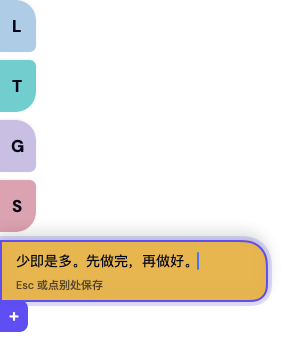
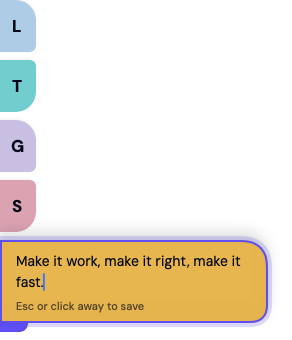
feat: English interface text; README and screenshots in English
The interface follows the system language (English or Simplified Chinese).

Changed region(s): [[0.0, 0.8529, 0.9555, 0.9706], [0.0308, 0.7353, 0.8322, 0.8529]]

diff --git a/Sources/StickySideNote/AppDelegate.swift b/Sources/StickySideNote/AppDelegate.swift
@@ -13,7 +13,8 @@ final class AppDelegate: NSObject, NSApplicationDelegate, NSMenuDelegate {
         installEditMenu()
         let snapshotDir = Snapshot.directory
         // Snapshot runs use their own notes file so they never touch real notes.
-        let store = NoteStore(fileURL: snapshotDir?.appendingPathComponent("notes.json") ?? NoteStore.defaultURL)
+        let store = NoteStore(fileURL: snapshotDir?.appendingPathComponent("notes.json") ?? NoteStore.defaultURL,
+                              welcomeText: L10n.welcome)
         model = RailModel(store: store) { text in
             let pasteboard = NSPasteboard.general
             pasteboard.clearContents()
@@ -83,7 +84,7 @@ final class AppDelegate: NSObject, NSApplicationDelegate, NSMenuDelegate {
 
         let layout = RailLayout.compute(noteCount: model.store.notes.count,
                                         available: panelController.availableHeight)
-        let add = ClosureMenuItem(title: "新建便签") { [unowned self] in
+        let add = ClosureMenuItem(title: L10n.newNote) { [unowned self] in
             model.setHidden(false)
             model.addNote()
         }
@@ -93,7 +94,7 @@ final class AppDelegate: NSObject, NSApplicationDelegate, NSMenuDelegate {
         // One step from "copied something elsewhere" to a note, with no typing or focus needed.
         let clip = NSPasteboard.general.string(forType: .string)?
             .trimmingCharacters(in: .whitespacesAndNewlines) ?? ""
-        let paste = ClosureMenuItem(title: "从剪贴板新建便签") { [unowned self] in
+        let paste = ClosureMenuItem(title: L10n.newNoteFromClipboard) { [unowned self] in
             model.setHidden(false)
             model.commitEdit()
             model.store.add(text: clip)
@@ -102,17 +103,17 @@ final class AppDelegate: NSObject, NSApplicationDelegate, NSMenuDelegate {
         menu.addItem(paste)
 
         let hidden = model.isHidden
-        menu.addItem(ClosureMenuItem(title: hidden ? "显示全部便签" : "隐藏全部便签") { [unowned self] in
+        menu.addItem(ClosureMenuItem(title: hidden ? L10n.showAll : L10n.hideAll) { [unowned self] in
             model.setHidden(!hidden)
         })
 
         // Moving without dragging: every screen, either side.
-        let move = NSMenuItem(title: "移动到", action: nil, keyEquivalent: "")
+        let move = NSMenuItem(title: L10n.moveTo, action: nil, keyEquivalent: "")
         let places = NSMenu()
         places.autoenablesItems = false
         for (index, screen) in NSScreen.screens.enumerated() {
             if index > 0 { places.addItem(.separator()) }
-            for (side, label) in [(RailSide.left, "左侧"), (RailSide.right, "右侧")] {
+            for (side, label) in [(RailSide.left, L10n.left), (RailSide.right, L10n.right)] {
                 let item = ClosureMenuItem(title: "\(screen.localizedName) · \(label)") { [unowned self] in
                     model.setHidden(false)
                     panelController.place(on: screen, side: side)
@@ -125,12 +126,12 @@ final class AppDelegate: NSObject, NSApplicationDelegate, NSMenuDelegate {
         menu.addItem(move)
         menu.addItem(.separator())
 
-        let login = ClosureMenuItem(title: "开机自动启动") { [unowned self] in toggleLoginItem() }
+        let login = ClosureMenuItem(title: L10n.launchAtLogin) { [unowned self] in toggleLoginItem() }
         login.state = SMAppService.mainApp.status == .enabled ? .on : .off
         menu.addItem(login)
         menu.addItem(.separator())
 
-        menu.addItem(ClosureMenuItem(title: "退出") { NSApp.terminate(nil) })
+        menu.addItem(ClosureMenuItem(title: L10n.quit) { NSApp.terminate(nil) })
     }
 
     // MARK: Launch at login

diff --git a/Sources/StickySideNote/L10n.swift b/Sources/StickySideNote/L10n.swift
@@ -1,0 +1,31 @@
+import Foundation
+
+/// Interface text in English and Simplified Chinese. Follows the system language;
+/// STICKY_LANG=en or STICKY_LANG=zh overrides it (used for screenshots).
+enum L10n {
+    static let isChinese: Bool = {
+        if let forced = ProcessInfo.processInfo.environment["STICKY_LANG"] {
+            return forced.hasPrefix("zh")
+        }
+        return Locale.preferredLanguages.first?.hasPrefix("zh") ?? false
+    }()
+
+    private static func pick(_ en: String, _ zh: String) -> String { isChinese ? zh : en }
+
+    static let hintIdle = pick("Click to copy · Double-click to edit", "单击复制 · 双击编辑")
+    static let hintCopied = pick("✓ Copied", "✓ 已复制")
+    static let hintEditing = pick("Esc or click away to save", "Esc 或点别处保存")
+    static let welcome = pick("Hover to read · Click to copy · Double-click to edit · Right-click for colour or delete",
+                              "悬停看全文 · 单击复制 · 双击编辑 · 右键换色或删除")
+
+    static let newNote = pick("New note", "新建便签")
+    static let newNoteFromClipboard = pick("New note from clipboard", "从剪贴板新建便签")
+    static let deleteNote = pick("Delete note", "删除便签")
+    static let showAll = pick("Show all notes", "显示全部便签")
+    static let hideAll = pick("Hide all notes", "隐藏全部便签")
+    static let moveTo = pick("Move to", "移动到")
+    static let left = pick("Left", "左侧")
+    static let right = pick("Right", "右侧")
+    static let launchAtLogin = pick("Launch at login", "开机自动启动")
+    static let quit = pick("Quit", "退出")
+}

diff --git a/Sources/StickyCore/NoteStore.swift b/Sources/StickyCore/NoteStore.swift
@@ -13,11 +13,12 @@ public final class NoteStore: ObservableObject {
     @Published public private(set) var notes: [Note] = []
     private let fileURL: URL
 
-    public init(fileURL: URL) {
+    /// `welcomeText` is the sample note written on first run, when no notes file exists yet.
+    public init(fileURL: URL, welcomeText: String = NoteStore.welcomeText) {
         self.fileURL = fileURL
         let fm = FileManager.default
         guard fm.fileExists(atPath: fileURL.path) else {
-            notes = [Note(text: Self.welcomeText, color: .sky)]
+            notes = [Note(text: welcomeText, color: .sky)]
             save()
             return
         }

diff --git a/Sources/StickySideNote/NoteView.swift b/Sources/StickySideNote/NoteView.swift
@@ -23,8 +23,8 @@ struct NoteView: View {
     private var isCopied: Bool { model.copiedID == note.id }
 
     private var hint: String {
-        if isEditing { return "Esc 或点别处保存" }
-        return isCopied ? "✓ 已复制" : "单击复制 · 双击编辑"
+        if isEditing { return L10n.hintEditing }
+        return isCopied ? L10n.hintCopied : L10n.hintIdle
     }
 
     /// Petal shape: one large arc and one small corner on the free side, alternating down the rail.

diff --git a/Tests/StickyCoreTests/NoteStoreTests.swift b/Tests/StickyCoreTests/NoteStoreTests.swift
@@ -79,4 +79,8 @@ final class NoteStoreTests: XCTestCase {
         s.add(text: "keep")
         XCTAssertEqual(NoteStore(fileURL: file).notes.map(\.text), [NoteStore.welcomeText, "keep"])
     }
+    func testFirstRunUsesGivenWelcomeText() {
+        let s = NoteStore(fileURL: file, welcomeText: "Hello")
+        XCTAssertEqual(s.notes.map(\.text), ["Hello"])
+    }
 }

diff --git a/Sources/StickySideNote/NoteMenu.swift b/Sources/StickySideNote/NoteMenu.swift
@@ -19,7 +19,7 @@ enum NoteMenu {
         menu.addItem(dots)
         menu.addItem(.separator())
 
-        let delete = ClosureMenuItem(title: "删除便签") { model.delete(note.id) }
+        let delete = ClosureMenuItem(title: L10n.deleteNote) { model.delete(note.id) }
         menu.addItem(delete)
 
         NSMenu.popUpContextMenu(menu, with: event, for: view)

diff --git a/Sources/StickySideNote/RailView.swift b/Sources/StickySideNote/RailView.swift
@@ -131,6 +131,6 @@ struct RailView: View {
                              onDoubleClick: { model.addNote() })
             }
             .animation(Theme.ease, value: addHovered)
-            .help("新建便签")
+            .help(L10n.newNote)
     }
 }

diff --git a/README.md b/README.md
@@ -80,7 +80,8 @@ be turned off from the menu.
 The menu bar icon adds a note (blank or from the clipboard), moves the rail to a side of any
 screen, hides or shows all notes, toggles launch at login, and quits.
 
-The interface text is currently in Simplified Chinese. Notes themselves can be in any language.
+The interface is in English or Simplified Chinese, following your system language. Notes
+themselves can be in any language.
 
 ## Your notes
 
@@ -128,10 +129,9 @@ Things deliberately left out of this first version:
 - Reordering notes by dragging
 - A rail on the top or bottom edge
 - A global keyboard shortcut
-- English interface text
 
 ## Uninstall
 
-1. Turn off "开机自动启动" (launch at login) in the menu bar menu, then choose "退出" (quit).
+1. Turn off "Launch at login" in the menu bar menu, then choose "Quit".
 2. Delete `/Applications/StickySideNote.app`.
 3. Delete `~/Library/Application Support/StickySideNote/` to remove your notes.
